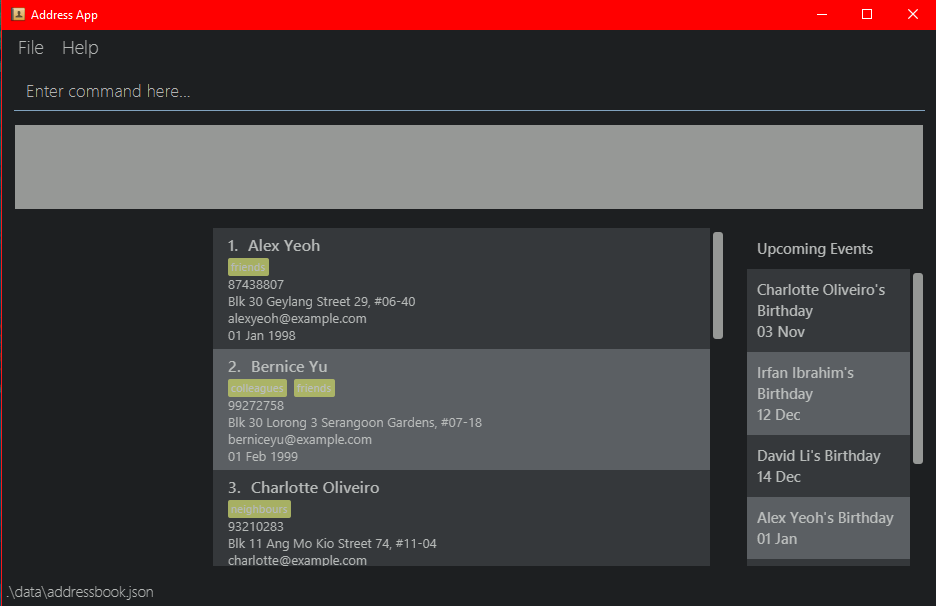
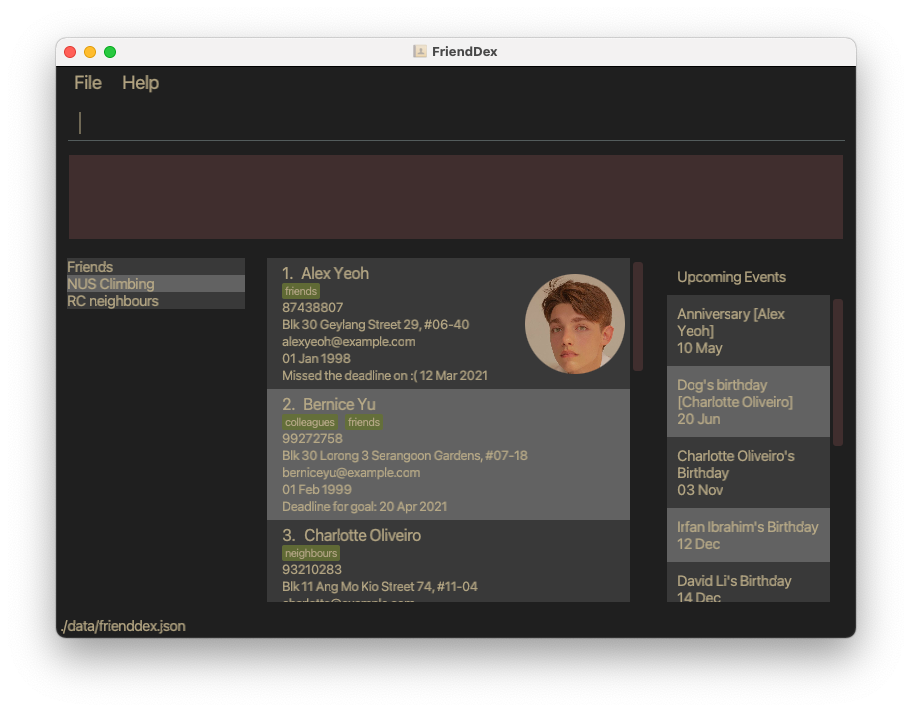
Update screenshots in UG

diff --git a/src/main/java/seedu/address/ui/HelpWindow.java b/src/main/java/seedu/address/ui/HelpWindow.java
@@ -15,7 +15,7 @@ import seedu.address.commons.core.LogsCenter;
  */
 public class HelpWindow extends UiPart<Stage> {
 
-    public static final String USERGUIDE_URL = "https://se-education.org/addressbook-level3/UserGuide.html";
+    public static final String USERGUIDE_URL = "https://ay2021s2-cs2103t-w14-1.github.io/tp/UserGuide.html";
     public static final String HELP_MESSAGE = "Refer to the user guide: " + USERGUIDE_URL;
 
     private static final Logger logger = LogsCenter.getLogger(HelpWindow.class);
